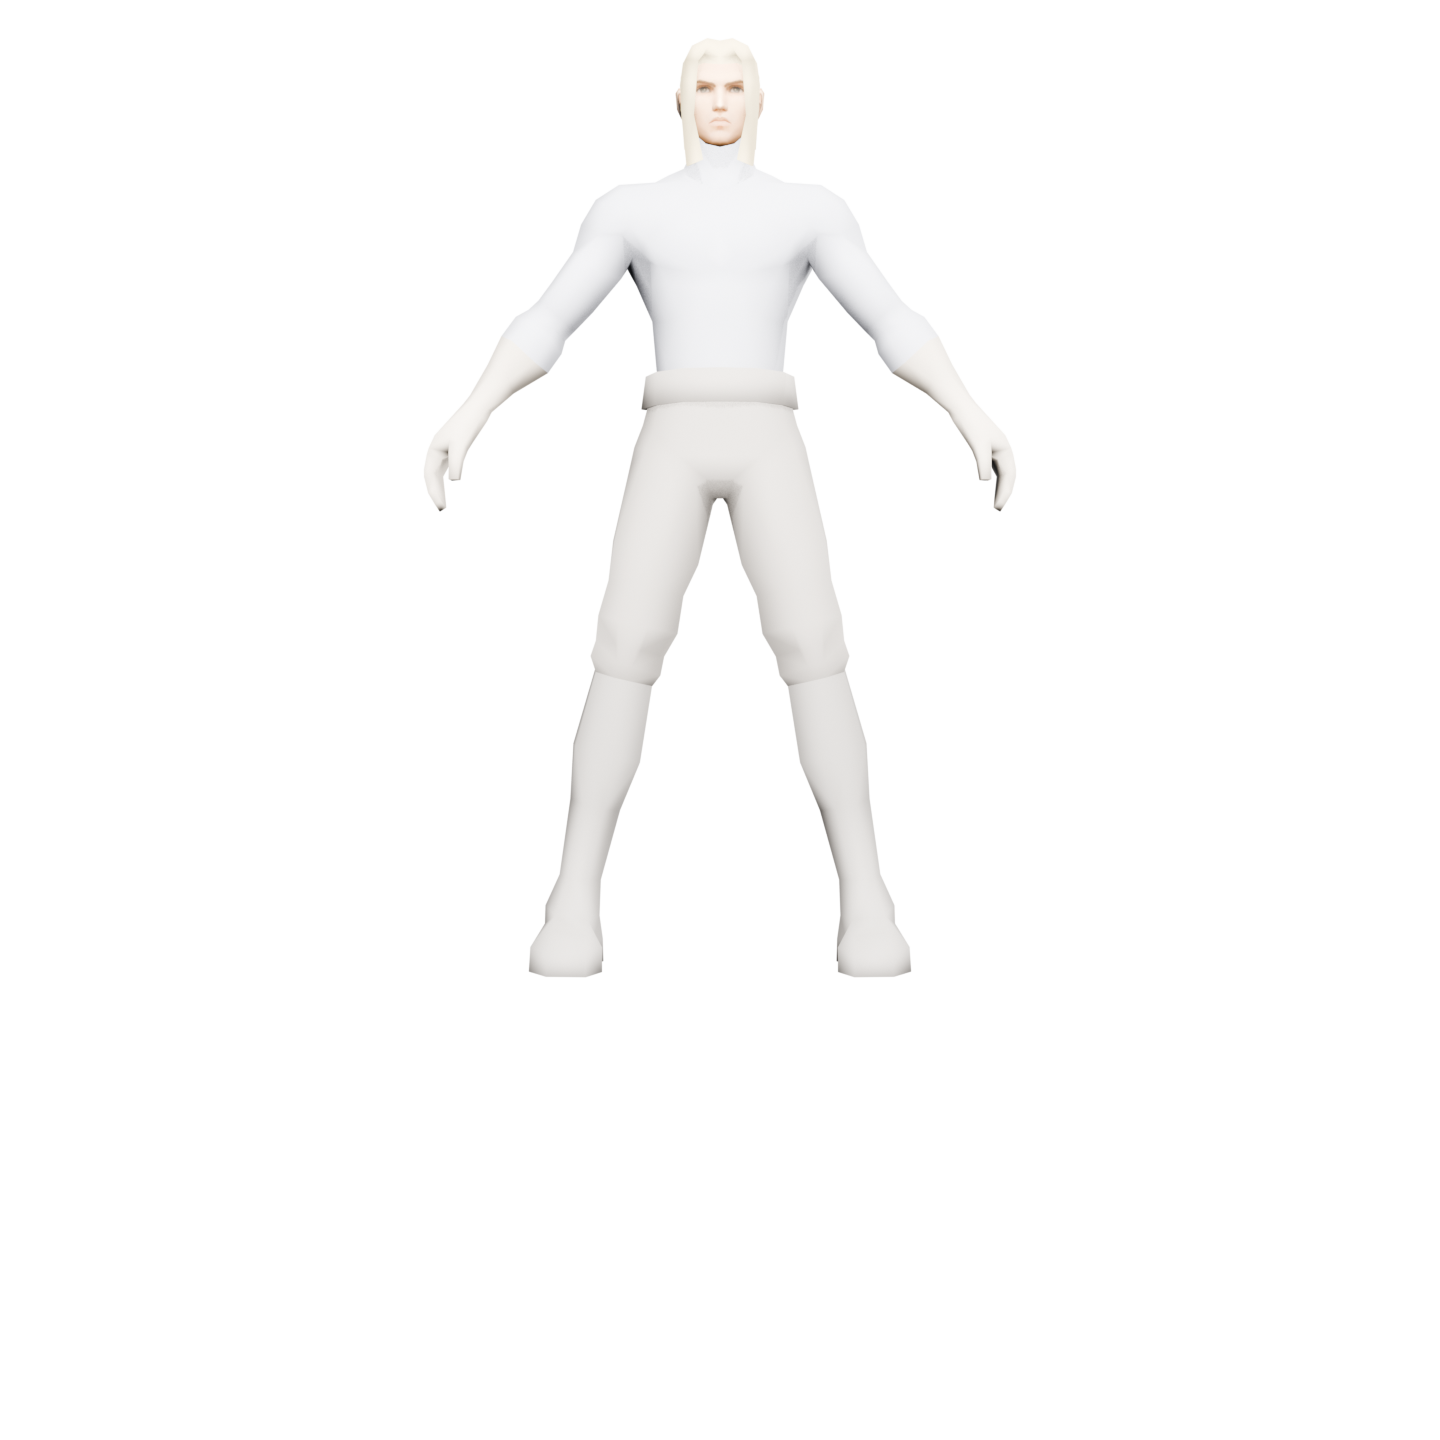
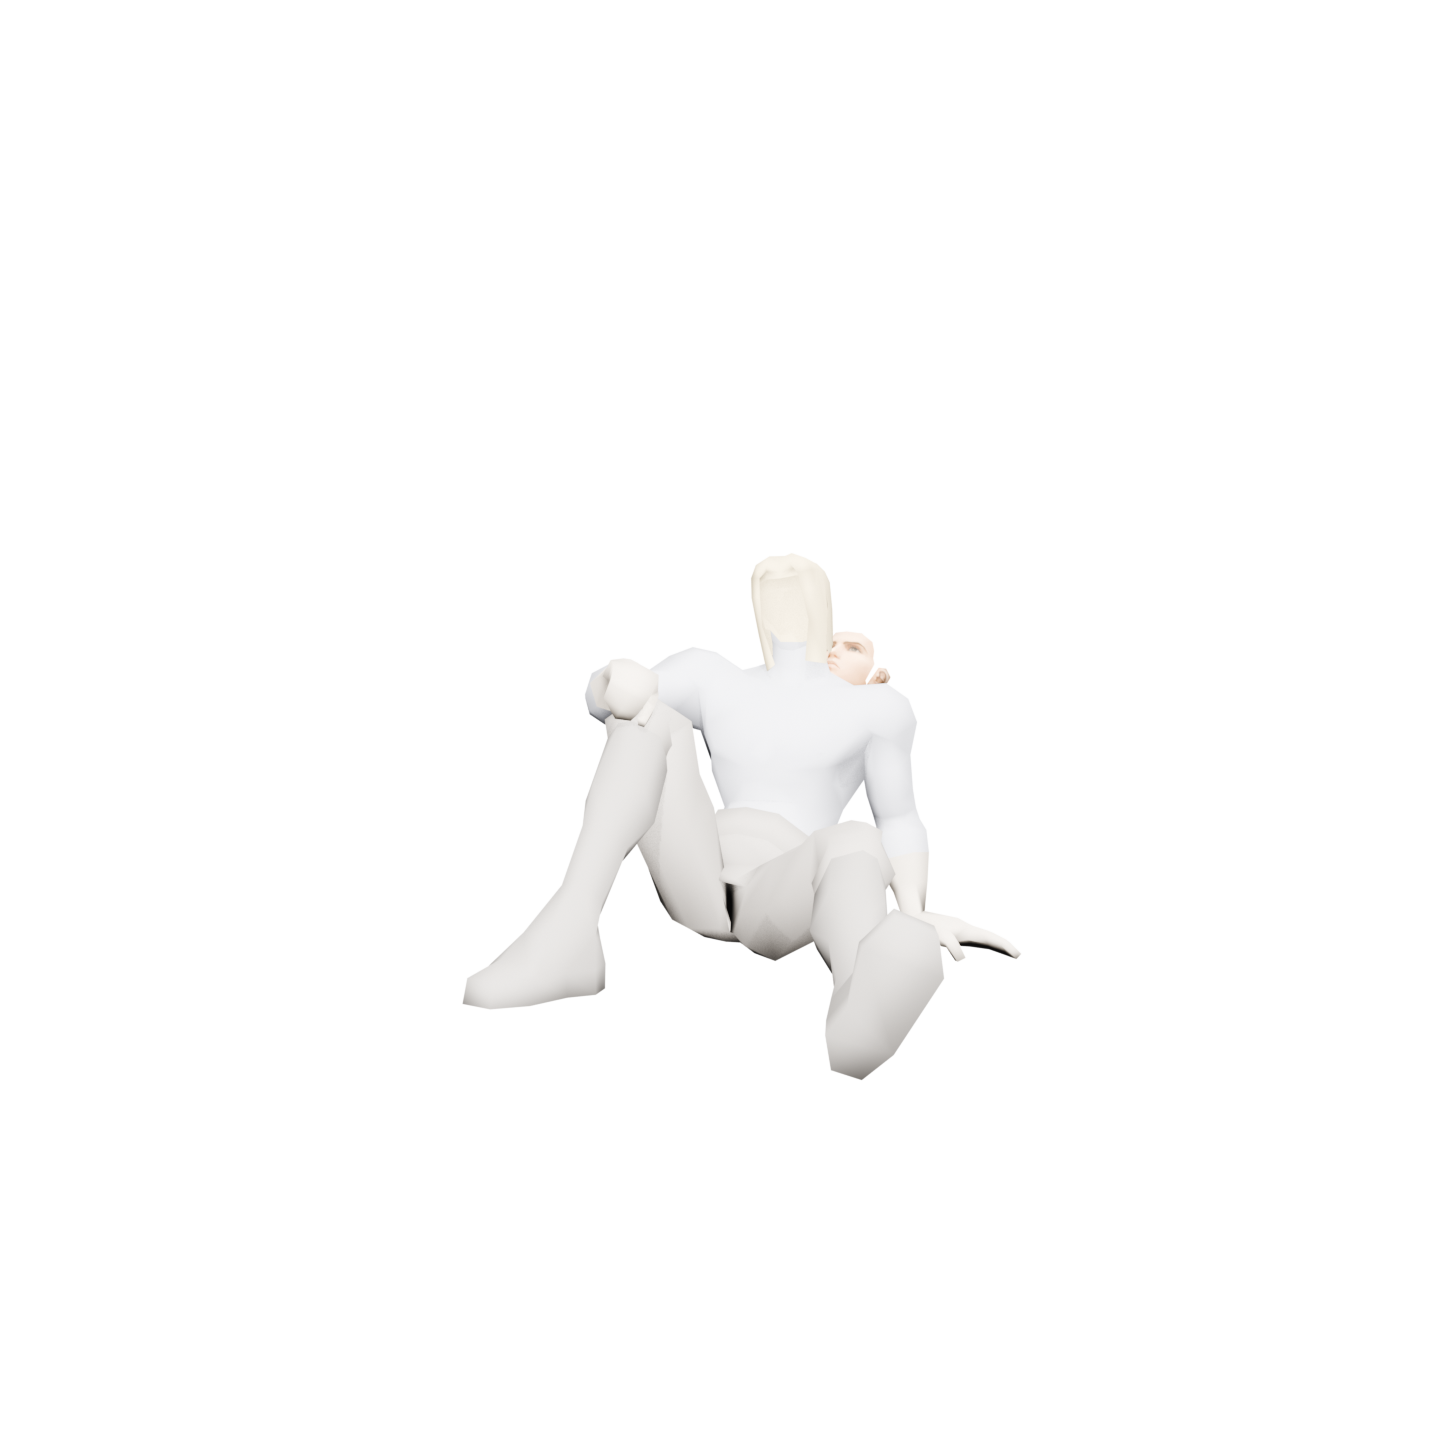
Add L2 idle animation to profile models

diff --git a/index.html b/index.html
@@ -8,7 +8,7 @@
   <meta http-equiv="Expires" content="0">
   <script>
     (function () {
-      const APP_VERSION = '20260429-telegram-135';
+      const APP_VERSION = '20260429-telegram-137';
       const url = new URL(window.location.href);
       window.__HD_DEBUG_GRID__ = url.searchParams.get('grid') === '1';
       if (url.searchParams.get('appv') !== APP_VERSION) {
@@ -19,8 +19,8 @@
     })();
   </script>  <title>Hollow Dominion</title>
   <script src="https://telegram.org/js/telegram-web-app.js"></script>
-  <script type="module" src="./assets/vendor/model-viewer.min.js?v=20260429-telegram-135"></script>
-  <link rel="stylesheet" href="common.css?v=20260429-telegram-135">
+  <script type="module" src="./assets/vendor/model-viewer.min.js?v=20260429-telegram-137"></script>
+  <link rel="stylesheet" href="common.css?v=20260429-telegram-137">
   <style>
     .screen-page {
       position: relative;
@@ -2974,8 +2974,8 @@
   </div>
   <div class="toast" id="toast"></div>
 
-<script src="item-catalog.js?v=20260429-telegram-135"></script>
-<script src="common.js?v=20260429-telegram-135"></script>
+<script src="item-catalog.js?v=20260429-telegram-137"></script>
+<script src="common.js?v=20260429-telegram-137"></script>
     <script>
       (async () => {
       const screenPage = document.querySelector('.screen-page');
@@ -3377,6 +3377,8 @@
                         <model-viewer
                           id="profileModelViewer"
                           src="./assets/models/profile_base.glb?v=${assetVersion}"
+                          autoplay
+                          animation-name="Stand_MFighter"
                           camera-controls
                           disable-pan
                           disable-zoom

diff --git a/common.js b/common.js
@@ -944,6 +944,14 @@ function primeProfile3DViewer(config) {
     viewer.dataset.boundHdViewer = '1';
     viewer.addEventListener('load', () => {
       document.documentElement.classList.add('has-model-viewer');
+      viewer.setAttribute('animation-name', 'Stand_MFighter');
+      if (typeof viewer.play === 'function') {
+        try {
+          viewer.play();
+        } catch (error) {
+          console.warn('Unable to start profile idle animation:', error);
+        }
+      }
     });
     viewer.addEventListener('error', () => {
       document.documentElement.classList.remove('has-model-viewer');
@@ -955,6 +963,8 @@ function primeProfile3DViewer(config) {
     viewer.setAttribute('src', asset.src);
     viewer.removeAttribute('poster');
   }
+  viewer.setAttribute('autoplay', '');
+  viewer.setAttribute('animation-name', 'Stand_MFighter');
   viewer.removeAttribute('poster');
   const isCompactDesktop = !!document.body &&
     document.body.classList.contains('env-telegram') &&

diff --git a/scripts/build_profile_mannequin.py b/scripts/build_profile_mannequin.py
@@ -1,6 +1,8 @@
 import argparse
+import importlib.util
 import math
 import os
+import subprocess
 import sys
 from pathlib import Path
 
@@ -206,6 +208,296 @@ def resolve_l2_texture_sets():
         OUTER_ROOT / "_l2_extract_test2" / "FFighter" / "Texture",
     )
     return leather_root, head_root
+
+
+def find_l2_game_root() -> Path | None:
+    candidates = [
+        Path("E:/l2 clear"),
+        Path("E:/GamePirate/MASTERWORK"),
+    ]
+    for candidate in candidates:
+        if candidate.exists():
+            return candidate
+    return None
+
+
+def find_umodel_materials_exe() -> Path | None:
+    candidates = [
+        OUTER_ROOT / "tools" / "umodel_materials" / "umodel_materials.exe",
+        OUTER_ROOT / "tools" / "umodel.exe",
+    ]
+    for candidate in candidates:
+        if candidate.exists():
+            return candidate
+    return None
+
+
+def ensure_profile_animation_exports(variant: str) -> dict[str, Path] | None:
+    game_root = find_l2_game_root()
+    umodel = find_umodel_materials_exe()
+    if not game_root or not umodel:
+        return None
+
+    export_root = PROJECT_ROOT / "_profile_anim_src"
+    export_root.mkdir(parents=True, exist_ok=True)
+
+    variant_parts = {
+        "base": [
+            "MFighter_m000_u",
+            "MFighter_m000_l",
+            "MFighter_m000_g",
+            "MFighter_m000_b",
+            "MFighter_m000_h",
+            "MFighter_m000_f",
+        ],
+        "leather": [
+            "MFighter_m001_u",
+            "MFighter_m001_l",
+            "MFighter_m001_g",
+            "MFighter_m001_b",
+            "MFighter_m000_h",
+            "MFighter_m000_f",
+        ],
+    }
+
+    def run_export(object_name: str, export_anims: bool = False) -> None:
+        cmd = [
+            str(umodel),
+            f"-path={game_root}",
+            f"-out={export_root}",
+            "-export",
+        ]
+        if export_anims:
+            cmd.append("-anims")
+        cmd.extend(["Fighter", object_name])
+        subprocess.run(cmd, check=True)
+
+    part_paths: dict[str, Path] = {}
+    for object_name in variant_parts[variant]:
+        psk_path = export_root / "Fighter" / "SkeletalMesh" / f"{object_name}.psk"
+        if not psk_path.exists():
+            run_export(object_name, export_anims=False)
+        if not psk_path.exists():
+            return None
+        part_paths[object_name] = psk_path
+
+    psa_path = export_root / "Fighter" / "MeshAnimation" / "MFighter_anim.psa"
+    if not psa_path.exists():
+        run_export("MFighter_anim", export_anims=True)
+    if not psa_path.exists():
+        return None
+
+    part_paths["MFighter_anim"] = psa_path
+    part_paths["texture_root"] = export_root / "MFighter" / "Texture"
+    return part_paths
+
+
+def load_pskpsa_importer():
+    addon_path = (
+        Path(os.environ.get("APPDATA", ""))
+        / "Blender Foundation"
+        / "Blender"
+        / "5.1"
+        / "scripts"
+        / "addons"
+        / "umodel_tools-main"
+        / "umodel_tools"
+        / "third_party"
+        / "io_import_scene_unreal_psa_psk_280.py"
+    )
+    if not addon_path.exists():
+        return None, None
+
+    source = addon_path.read_text(encoding="utf-8")
+
+    if "mesh_data.use_auto_smooth = True" in source and "if hasattr(mesh_data, 'use_auto_smooth')" not in source:
+        source = source.replace(
+            "            mesh_data.use_auto_smooth = True",
+            "            if hasattr(mesh_data, 'use_auto_smooth'):\n                mesh_data.use_auto_smooth = True",
+        )
+
+    if "armature_obj.pose.bone_groups.new" in source and "bone_group_unused = None" not in source:
+        source = source.replace(
+            "        bone_group_unused = armature_obj.pose.bone_groups.new(name = \"Unused bones\")\n"
+            "        bone_group_unused.color_set = 'THEME14'\n\n"
+            "        bone_group_nochild = armature_obj.pose.bone_groups.new(name = \"No children\")\n"
+            "        bone_group_nochild.color_set = 'THEME03'\n\n"
+            "        armature_data.show_group_colors = True\n",
+            "        bone_group_unused = None\n"
+            "        bone_group_nochild = None\n"
+            "        if hasattr(armature_obj.pose, 'bone_groups'):\n"
+            "            bone_group_unused = armature_obj.pose.bone_groups.new(name = \"Unused bones\")\n"
+            "            bone_group_unused.color_set = 'THEME14'\n"
+            "            bone_group_nochild = armature_obj.pose.bone_groups.new(name = \"No children\")\n"
+            "            bone_group_nochild.color_set = 'THEME03'\n"
+            "            if hasattr(armature_data, 'show_group_colors'):\n"
+            "                armature_data.show_group_colors = True\n",
+        )
+
+    if "if bone_group_nochild is not None:\n                        pose_bone.bone_group = bone_group_nochild" not in source:
+        source = source.replace(
+            "                    pose_bone.bone_group = bone_group_nochild",
+            "                    if bone_group_nochild is not None:\n                        pose_bone.bone_group = bone_group_nochild",
+        )
+    if "if bone_group_unused is not None:\n                    pose_bone.bone_group = bone_group_unused" not in source:
+        source = source.replace(
+            "                pose_bone.bone_group = bone_group_unused",
+            "                if bone_group_unused is not None:\n                    pose_bone.bone_group = bone_group_unused",
+        )
+
+    if "armature_obj.animation_data.action = action" not in source:
+        source = source.replace(
+            "        action = bpy.data.actions.new(name = Name)\n",
+            "        action = bpy.data.actions.new(name = Name)\n        armature_obj.animation_data.action = action\n",
+        )
+
+    source = source.replace(
+        "action.fcurves.new(data_path, index = 0)",
+        "action.fcurve_ensure_for_datablock(armature_obj, data_path, index = 0)",
+    )
+    source = source.replace(
+        "action.fcurves.new(data_path, index = 1)",
+        "action.fcurve_ensure_for_datablock(armature_obj, data_path, index = 1)",
+    )
+    source = source.replace(
+        "action.fcurves.new(data_path, index = 2)",
+        "action.fcurve_ensure_for_datablock(armature_obj, data_path, index = 2)",
+    )
+    source = source.replace(
+        "action.fcurves.new(data_path, index = 3)",
+        "action.fcurve_ensure_for_datablock(armature_obj, data_path, index = 3)",
+    )
+
+    if "if psa_bone is None:" not in source:
+        source = source.replace(
+            "                psa_bone = PsaBonesToProcess[j]\n                # pose_bone = psa_bone.pose_bone\n",
+            "                psa_bone = PsaBonesToProcess[j]\n"
+            "                if psa_bone is None:\n"
+            "                    raw_key_index += 1\n"
+            "                    continue\n"
+            "                # pose_bone = psa_bone.pose_bone\n",
+        )
+
+    module = importlib.util.module_from_spec(importlib.util.spec_from_loader("pskpsa_compat", loader=None))
+    exec(compile(source, str(addon_path), "exec"), module.__dict__)
+    return module.pskimport, module.psaimport
+
+
+def bind_mesh_to_armature(mesh_obj, armature_obj):
+    mesh_obj.parent = armature_obj
+    mesh_obj.parent_type = "OBJECT"
+    modifier = mesh_obj.modifiers.new(armature_obj.data.name, type="ARMATURE")
+    modifier.show_expanded = False
+    modifier.use_vertex_groups = True
+    modifier.use_bone_envelopes = False
+    modifier.object = armature_obj
+
+
+def import_psk_part(pskimport, filepath: Path, with_bones: bool, armature_obj=None):
+    before = set(bpy.data.objects)
+    if armature_obj is not None:
+        for obj in bpy.data.objects:
+            obj.select_set(False)
+        armature_obj.select_set(True)
+        bpy.context.view_layer.objects.active = armature_obj
+
+    pskimport(
+        str(filepath),
+        context=bpy.context,
+        bImportmesh=True,
+        bImportbone=with_bones,
+    )
+    imported = [obj for obj in bpy.data.objects if obj not in before]
+    meshes = [obj for obj in imported if obj.type == "MESH"]
+    armatures = [obj for obj in imported if obj.type == "ARMATURE"]
+
+    if with_bones:
+        return armatures[0] if armatures else None, meshes
+
+    for mesh in meshes:
+        bind_mesh_to_armature(mesh, armature_obj)
+    return armature_obj, meshes
+
+
+def apply_material(meshes, material):
+    for obj in meshes:
+        obj.data.materials.clear()
+        obj.data.materials.append(material)
+        finalize_object(obj, smooth=True)
+
+
+def add_l2_fighter_profile_animated(variant: str) -> bool:
+    exported = ensure_profile_animation_exports(variant)
+    if not exported:
+        return False
+
+    pskimport, psaimport = load_pskpsa_importer()
+    if not pskimport or not psaimport:
+        return False
+
+    texture_root = exported["texture_root"]
+    armature_obj = None
+
+    if variant == "leather":
+        upper_tex = find_first_existing(texture_root / "MFighter_m001_t01_u_sp_rgb.png", texture_root / "MFighter_m001_t01_u_sp.png", texture_root / "MFighter_m001_t01_u_sp.tga")
+        lower_tex = find_first_existing(texture_root / "MFighter_m001_t01_l_sp_rgb.png", texture_root / "MFighter_m001_t01_l_sp.png", texture_root / "MFighter_m001_t01_l_sp.tga")
+        gloves_tex = find_first_existing(texture_root / "MFighter_m001_t01_g_sp_rgb.png", texture_root / "MFighter_m001_t01_g_sp.png", texture_root / "MFighter_m001_t01_g_sp.tga")
+        boots_tex = find_first_existing(texture_root / "MFighter_m001_t01_b_sp_rgb.png", texture_root / "MFighter_m001_t01_b_sp.png", texture_root / "MFighter_m001_t01_b_sp.tga")
+        upper_mat = make_image_material("AnimLeatherUpper", upper_tex, metallic=0.02, roughness=0.78, specular=0.18) if upper_tex else make_material("AnimLeatherUpperFallback", (0.43, 0.31, 0.20), metallic=0.10, roughness=0.66, specular=0.24)
+        lower_mat = make_image_material("AnimLeatherLower", lower_tex, metallic=0.02, roughness=0.80, specular=0.16) if lower_tex else make_material("AnimLeatherLowerFallback", (0.47, 0.34, 0.22), metallic=0.10, roughness=0.68, specular=0.24)
+        gloves_mat = make_image_material("AnimLeatherGloves", gloves_tex, metallic=0.02, roughness=0.80, specular=0.16) if gloves_tex else make_material("AnimLeatherGlovesFallback", (0.37, 0.27, 0.18), metallic=0.08, roughness=0.70, specular=0.22)
+        boots_mat = make_image_material("AnimLeatherBoots", boots_tex, metallic=0.02, roughness=0.82, specular=0.14) if boots_tex else make_material("AnimLeatherBootsFallback", (0.29, 0.21, 0.14), metallic=0.08, roughness=0.72, specular=0.22)
+
+        armature_obj, upper_meshes = import_psk_part(pskimport, exported["MFighter_m001_u"], with_bones=True)
+        _, lower_meshes = import_psk_part(pskimport, exported["MFighter_m001_l"], with_bones=False, armature_obj=armature_obj)
+        _, gloves_meshes = import_psk_part(pskimport, exported["MFighter_m001_g"], with_bones=False, armature_obj=armature_obj)
+        _, boots_meshes = import_psk_part(pskimport, exported["MFighter_m001_b"], with_bones=False, armature_obj=armature_obj)
+        apply_material(upper_meshes, upper_mat)
+        apply_material(lower_meshes, lower_mat)
+        apply_material(gloves_meshes, gloves_mat)
+        apply_material(boots_meshes, boots_mat)
+    else:
+        upper_tex = find_first_existing(texture_root / "MFighter_m000_t01_u_sp_rgb.png", texture_root / "MFighter_m000_t01_u_sp.png", texture_root / "MFighter_m000_t01_u_sp.tga")
+        lower_tex = find_first_existing(texture_root / "MFighter_m000_t01_l_sp_rgb.png", texture_root / "MFighter_m000_t01_l_sp.png", texture_root / "MFighter_m000_t01_l_sp.tga")
+        gloves_tex = find_first_existing(texture_root / "MFighter_m000_t01_g_sp_rgb.png", texture_root / "MFighter_m000_t01_g_sp.png", texture_root / "MFighter_m000_t01_g_sp.tga")
+        boots_tex = find_first_existing(texture_root / "MFighter_m000_t01_b_sp_rgb.png", texture_root / "MFighter_m000_t01_b_sp.png", texture_root / "MFighter_m000_t01_b_sp.tga")
+        upper_mat = make_image_material("AnimBaseUpper", upper_tex, metallic=0.02, roughness=0.82, specular=0.12) if upper_tex else make_material("AnimBaseUpperFallback", (0.42, 0.42, 0.46), metallic=0.02, roughness=0.86, specular=0.08)
+        lower_mat = make_image_material("AnimBaseLower", lower_tex, metallic=0.02, roughness=0.84, specular=0.10) if lower_tex else make_material("AnimBaseLowerFallback", (0.30, 0.27, 0.24), metallic=0.02, roughness=0.88, specular=0.08)
+        gloves_mat = make_image_material("AnimBaseGloves", gloves_tex, metallic=0.02, roughness=0.80, specular=0.12) if gloves_tex else make_material("AnimBaseHandsFallback", (0.50, 0.43, 0.35), metallic=0.0, roughness=0.72, specular=0.14)
+        boots_mat = make_image_material("AnimBaseBoots", boots_tex, metallic=0.02, roughness=0.82, specular=0.10) if boots_tex else make_material("AnimBaseBootsFallback", (0.24, 0.22, 0.20), metallic=0.02, roughness=0.86, specular=0.08)
+
+        armature_obj, upper_meshes = import_psk_part(pskimport, exported["MFighter_m000_u"], with_bones=True)
+        _, lower_meshes = import_psk_part(pskimport, exported["MFighter_m000_l"], with_bones=False, armature_obj=armature_obj)
+        _, gloves_meshes = import_psk_part(pskimport, exported["MFighter_m000_g"], with_bones=False, armature_obj=armature_obj)
+        _, boots_meshes = import_psk_part(pskimport, exported["MFighter_m000_b"], with_bones=False, armature_obj=armature_obj)
+        apply_material(upper_meshes, upper_mat)
+        apply_material(lower_meshes, lower_mat)
+        apply_material(gloves_meshes, gloves_mat)
+        apply_material(boots_meshes, boots_mat)
+
+    face_tex = find_first_existing(texture_root / "MFighter_m000_t01_f.png", texture_root / "MFighter_m000_t01_f.tga")
+    face_mat = make_image_material("AnimFace", face_tex, metallic=0.0, roughness=0.68, specular=0.16) if face_tex else make_material("AnimFaceFallback", (0.74, 0.62, 0.50), metallic=0.0, roughness=0.68, specular=0.16)
+    hair_mat = make_material("AnimHair", (0.57, 0.46, 0.25), metallic=0.0, roughness=0.86, specular=0.08)
+
+    _, hair_meshes = import_psk_part(pskimport, exported["MFighter_m000_h"], with_bones=False, armature_obj=armature_obj)
+    _, face_meshes = import_psk_part(pskimport, exported["MFighter_m000_f"], with_bones=False, armature_obj=armature_obj)
+    apply_material(hair_meshes, hair_mat)
+    apply_material(face_meshes, face_mat)
+
+    psaimport(str(exported["MFighter_anim"]), context=bpy.context, oArmature=armature_obj)
+    stand_action = bpy.data.actions.get("Stand_MFighter") or bpy.data.actions.get("Wait_1HS_MFighter") or bpy.data.actions.get("Wait_Shield_MFighter")
+    if not stand_action:
+        return False
+
+    for action in list(bpy.data.actions):
+        if action != stand_action:
+            bpy.data.actions.remove(action)
+
+    armature_obj.animation_data.action = stand_action
+    bpy.context.scene.frame_start = 1
+    bpy.context.scene.frame_end = max(2, int(round(stand_action.frame_range[1])))
+    bpy.context.scene.frame_set(1)
+    return True
 
 
 def import_l2_profile_part(gltf_path: Path, material):
@@ -500,7 +792,9 @@ def add_camera_l2():
 def build_scene(variant):
     scene = clear_scene()
 
-    used_l2 = add_l2_fighter_profile(variant)
+    used_l2 = add_l2_fighter_profile_animated(variant)
+    if not used_l2:
+        used_l2 = add_l2_fighter_profile(variant)
 
     if not used_l2:
         skin_mat = make_material("Skin", (0.78, 0.68, 0.60), metallic=0.0, roughness=0.58, specular=0.42)
@@ -535,6 +829,9 @@ def export_glb(output_glb):
         export_texcoords=True,
         export_normals=True,
         export_materials="EXPORT",
+        export_animations=True,
+        export_animation_mode="ACTIONS",
+        export_force_sampling=True,
         use_selection=False,
         export_yup=True,
     )